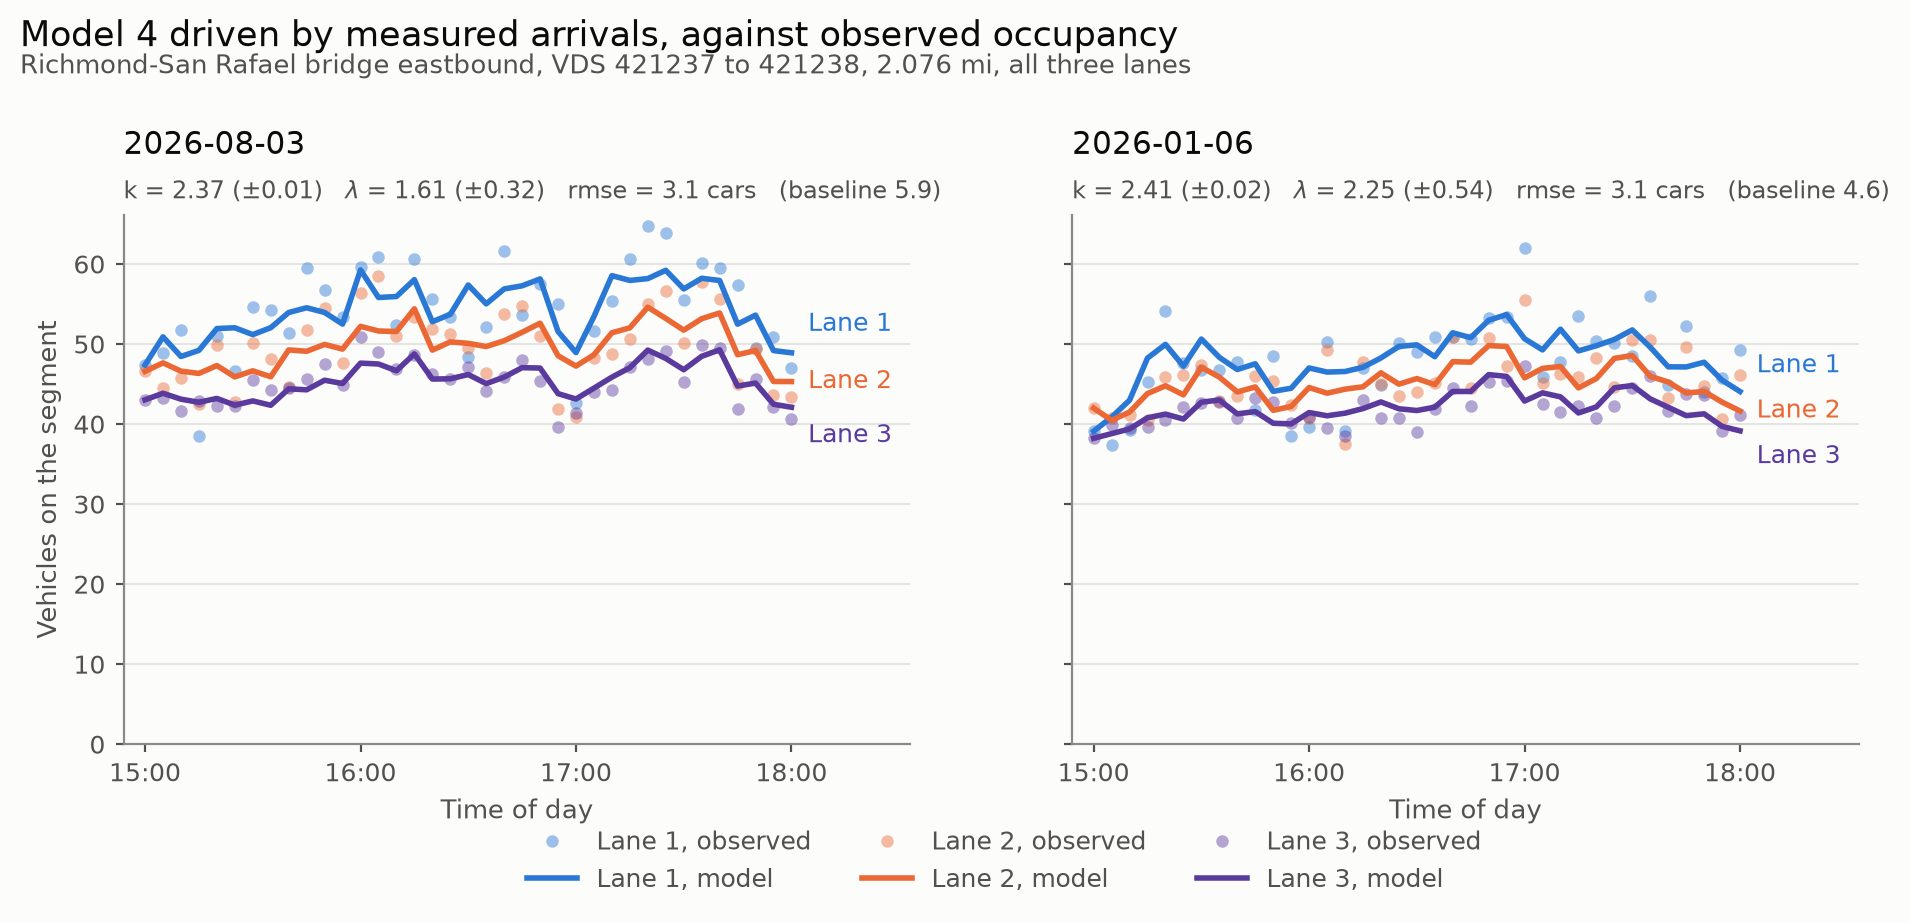
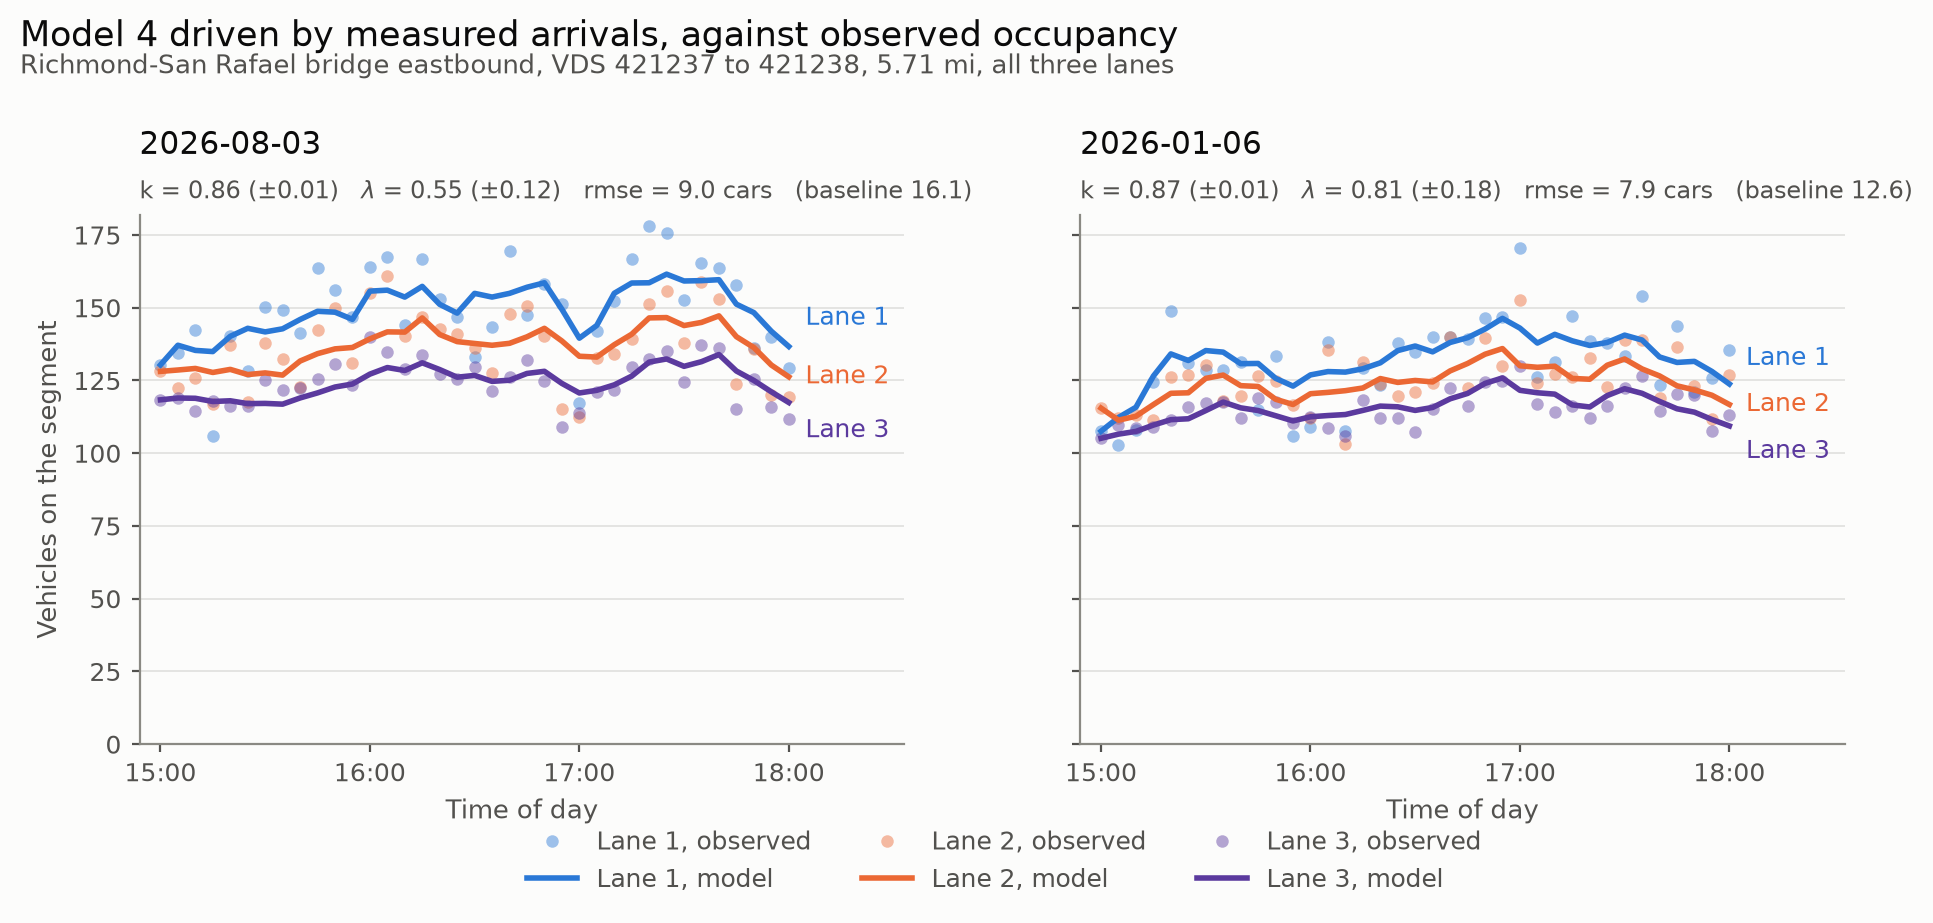
fix error in length of segment

diff --git a/load_pems_eb.py b/load_pems_eb.py
@@ -5,21 +5,17 @@ import pandas as pd
 
 from load_pems import COLS, vehicles
 
-# Eastbound lower deck of the Richmond-San Rafael bridge, the same span the rest
-# of the report uses. These are the two stations cited in paper.tex; the
-# westbound pair in load_pems.py mirrors them across the same piers.
-#
-# Note the deck has three lanes, not two. Model 4 is a two lane model, so lanes
-# 1 and 2 are fitted and lane 3 is carried alongside for reference only.
+# Eastbound lower deck of the Richmond-San Rafael bridge, the stations cited in
+# the report. The deck has three lanes, so model 4 fits lanes 1 and 2 and
+# carries lane 3 for reference.
 UPSTREAM = 421237
 DOWNSTREAM = 421238
 
-# From the metadata: |73.222 - 71.146|. The report's 5.71 mi is not this pair.
-SEGMENT_MILES = 2.076
+# State_PM as the PeMS site reports it: |7.22 - 1.51|.
+SEGMENT_MILES = 5.71
 
 
-# Same caching trick as the westbound loader: the district file is large and
-# only two stations of it matter.
+# The district file is 150 MB and only two stations of it matter, so cache them.
 def stations_5min(date: str, ids=(UPSTREAM, DOWNSTREAM)):
     cache = f"pems_eb_{date}_stations.csv"
     try:
@@ -47,14 +43,12 @@ def load_segment(date: str, start: str = "15:00", end: str = "18:00"):
         "A_2": up.l2_flow,
         "N_1": vehicles(down.l1_flow, down.l1_speed, L),
         "N_2": vehicles(down.l2_flow, down.l2_speed, L),
-        # Lane 3 is not part of the two lane model, only reported.
         "A_3": up.l3_flow,
         "N_3": vehicles(down.l3_flow, down.l3_speed, L),
     })
 
     # PeMS writes feed outages as exact zeros, which read as the road emptying
-    # and refilling inside one time step. A zero flow sample also leaves the
-    # speed undefined, so N is meaningless there.
+    # and refilling inside one time step, and leave N undefined.
     dead = ((up.l1_flow == 0) | (up.l2_flow == 0) |
             (down.l1_flow == 0) | (down.l2_flow == 0) |
             (down.l1_speed == 0) | (down.l2_speed == 0))
